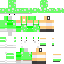
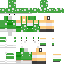
fix green

diff --git a/README.md b/README.md
@@ -1,2 +1,2 @@
 # skins
-# skins
+we got the drippy mushroom recolours
